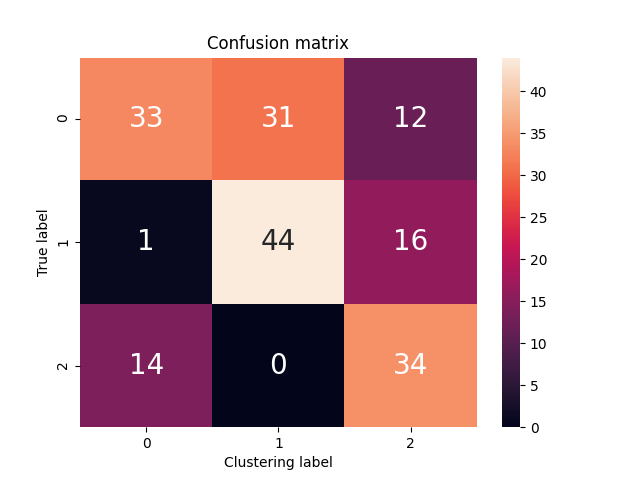
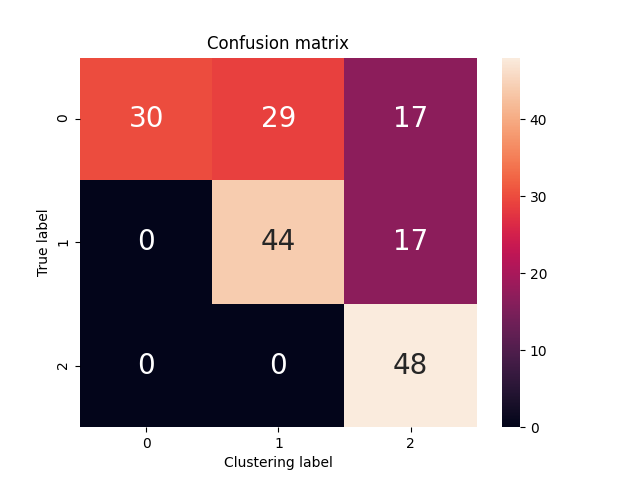
final aspc

diff --git a/src/ASPC.py b/src/ASPC.py
@@ -42,9 +42,9 @@ class ASPC(object):
         return weights
 
     def train(self, x_train, y_train, x_val, y_val, epochs, batch_size):
-        
+
         # find best init random state
-        for i in range(100):
+        for i in range(20):
             # print('final metrics:')
             _, _, _ = init_kmeans(
                 x=x_train,
@@ -55,20 +55,31 @@ class ASPC(object):
                 weights=cfg.ae_weights,
                 verbose=False
             )
-            # print('RANDOM_STATE', cfg.kmeans.random_state)
+            print('RANDOM_STATE', cfg.kmeans.random_state)
             cfg.random_state_acc['acc'].append(cfg.dict_metrics['val_acc'])
             cfg.random_state_acc['nmi'].append(cfg.dict_metrics['val_nmi'])
             cfg.random_state_acc['random_state'].append(i)
         
-        pass
+        df = pd.DataFrame(data=cfg.random_state_acc)
+        df.to_csv(
+            os.path.join(
+                cfg.tables,
+                cfg.exp,
+                'random_state_acc.csv'
+            ),
+            index=False
+        )
 
+        df = df.sort_values(by='acc', ascending=False)
+        best_state = int(df.iloc[0]['random_state'])
+        
         # initialization
         self.y_pred, self.val_y_pred, self.centers = init_kmeans(
             x=x_train,
             x_val=x_val,
             y=y_train,
             y_val=y_val,
-            random_state=cfg.kmeans.random_state,
+            random_state=best_state,
             weights=cfg.ae_weights
         )
 
@@ -97,7 +108,7 @@ class ASPC(object):
         for layer in self.encoder.layers[:-2]:
             layer.trainable = False
 
-        optim = Adam(learning_rate=1e-5)
+        optim = Adam(learning_rate=1e-6)
         self.encoder.compile(optimizer=optim, loss='mse')
         self.encoder.summary()
 
@@ -233,33 +244,37 @@ if __name__ == "__main__":
     method.train(x_train=x_train, y_train=y_train, x_val=x_val,
                  y_val=y_val, batch_size=16, epochs=10)
 
+    # find best init for test
+    for i in range(20):
+        # print('final metrics:')
+        _, y_test_pred, _ = init_kmeans(
+            x=x_train, x_val=x_test, y=y_train, y_val=y_test, random_state=i, weights=cfg.final_encoder_weights, verbose=False)
+        # print('RANDOM_STATE', cfg.kmeans.random_state)
+        cfg.final_random_state_acc['test_acc'].append(cfg.dict_metrics['val_acc'])
+        cfg.final_random_state_acc['test_nmi'].append(cfg.dict_metrics['val_nmi'])
+        cfg.final_random_state_acc['random_state'].append(i)
+
+    df = pd.DataFrame(data=cfg.final_random_state_acc)
+    df.to_csv(
+        os.path.join(
+            cfg.tables,
+            cfg.exp,
+            'final_random_state_acc.csv'
+        ),
+        index=False
+    )
+
+    df = df.sort_values(by='test_acc', ascending=False)
+    best_state = int(df.iloc[0]['random_state'])
+
     _, y_test_pred, _ = init_kmeans(
             x=x_train,
             x_val=x_test,
             y=y_train,
             y_val=y_test,
-            random_state=cfg.kmeans.random_state,
+            random_state=best_state,
             weights=cfg.final_encoder_weights,
         )
-    
-    # for i in range(100):
-    #     # print('final metrics:')
-    #     _, y_test_pred, _ = init_kmeans(
-    #         x=x_train, x_val=x_test, y=y_train, y_val=y_test, random_state=i, weights=cfg.final_encoder_weights, verbose=False)
-    #     # print('RANDOM_STATE', cfg.kmeans.random_state)
-    #     cfg.random_state_acc['test_acc'].append(cfg.dict_metrics['val_acc'])
-    #     cfg.random_state_acc['test_nmi'].append(cfg.dict_metrics['val_nmi'])
-    #     cfg.random_state_acc['random_state'].append(i)
-
-    # df = pd.DataFrame(data=cfg.random_state_acc)
-    # df.to_csv(
-    #     os.path.join(
-    #         cfg.tables,
-    #         cfg.exp,
-    #         'random_state_acc.csv'
-    #     ),
-    #     index=False
-    # )
 
     viz.plot_ae_tsne(
         encoder,

diff --git a/src/visualization.py b/src/visualization.py
@@ -84,12 +84,10 @@ def plot_ae_umap(encoder, weights, figures, train_dataset, dataset, epoch=''):
     for region in regions:
         polygon = vertices[region]
         plt.fill(*zip(*polygon), alpha=0.4)
-    plt.plot(centers2d[:, 0], centers2d[:, 1], 'ko')
-    plt.xlim((min_x - 1, max_x + 1))
-    plt.ylim((min_y - 1, max_y + 1))
-
     plt.scatter(test_embedding[:, 0], test_embedding[:, 1], c=y_test_pred, s=20, cmap='brg')
     plt.scatter(centers2d[:, 0], centers2d[:, 1], c='black', s=100)
+    plt.xlim((min_x - 1, max_x + 1))
+    plt.ylim((min_y - 1, max_y + 1))
     plt.savefig(os.path.join(figures, 'umap_encoder_' + epoch))
     print('saved scatter plot ae')
 

diff --git a/src/config.py b/src/config.py
@@ -47,7 +47,7 @@ my_callbacks = [
 kmeans = KMeans(
     n_clusters=n_clusters,
     n_init=100,
-    #random_state=12
+    random_state=0
 )
 
 # random state 0 ->
@@ -61,4 +61,10 @@ random_state_acc = {
     'random_state': [],
     'acc': [],
     'nmi': [],
+}
+
+final_random_state_acc = {
+    'random_state': [],
+    'test_acc': [],
+    'test_nmi': [],
 }
